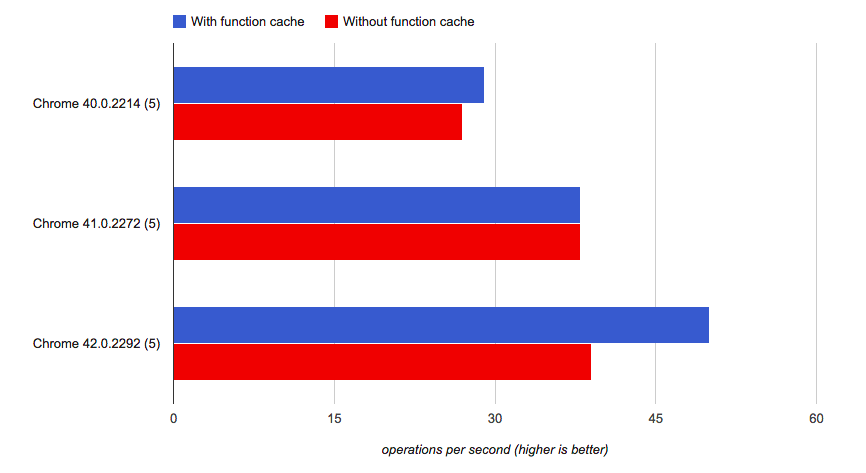
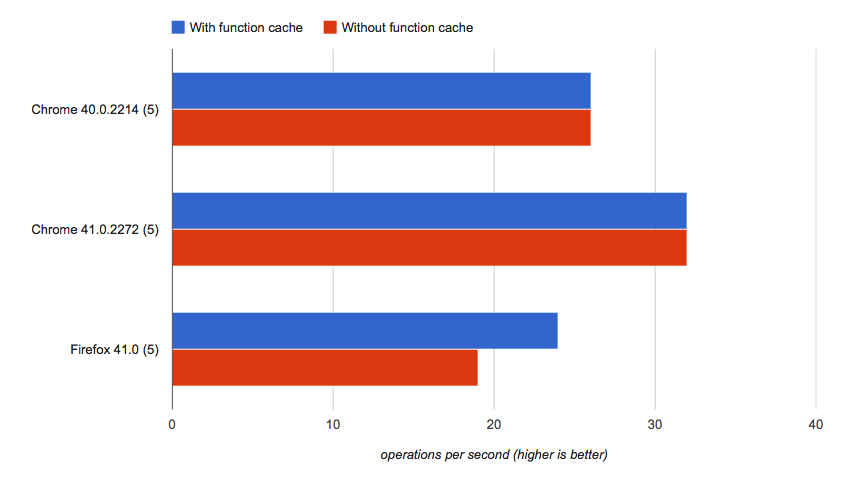
updates map benchmarks

diff --git a/spikes/3.1.3/comparison/index.html b/spikes/3.1.3/comparison/index.html
@@ -20,6 +20,6 @@
         <button onclick="runPjsInLoop()">Run pjs in loop</button>
     </div>
 </body>
-<script src="https://rawgit.com/pjsteam/pjs/v0.1.1/dist/p-j-s.min.js"></script>
+<script src="http://rawgit.com/pjsteam/pjs/v1.0.0-beta/dist/p-j-s.min.js"></script>
 <script src="./setup.js"></script>
 </html>

diff --git a/spikes/3.1.3/comparison/jspBenchmark.js b/spikes/3.1.3/comparison/jspBenchmark.js
@@ -1,4 +1,5 @@
 // http://jsperf.com/pjs-map-vs-serial/8
+// http://jsperf.com/pjs-map-vs-serial/9   < Shared
 
 // HTML preparation
 <script src="http://rawgit.com/pjsteam/pjs/v1.0.0-beta/dist/p-j-s.min.js"></script>
